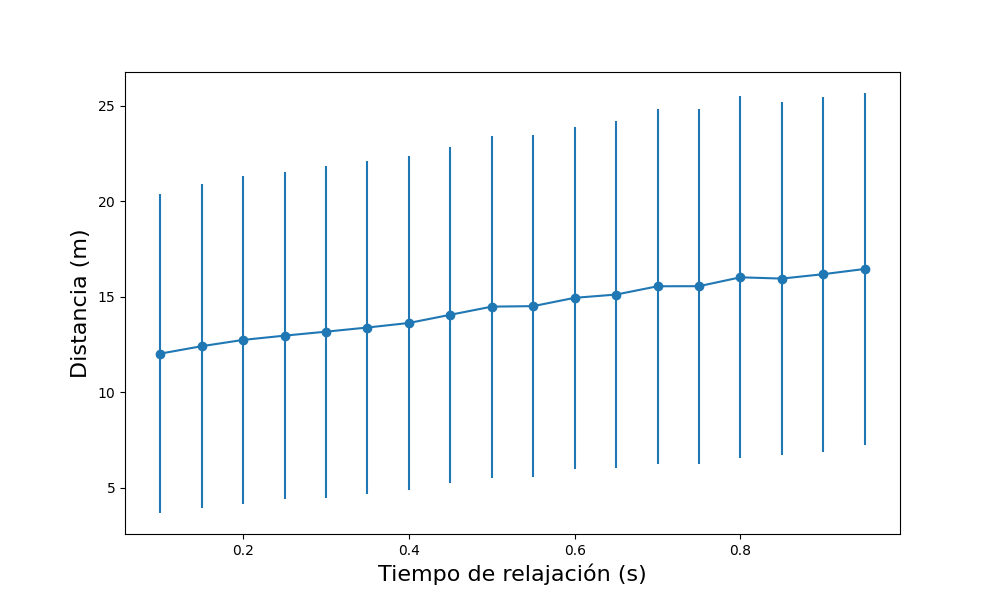
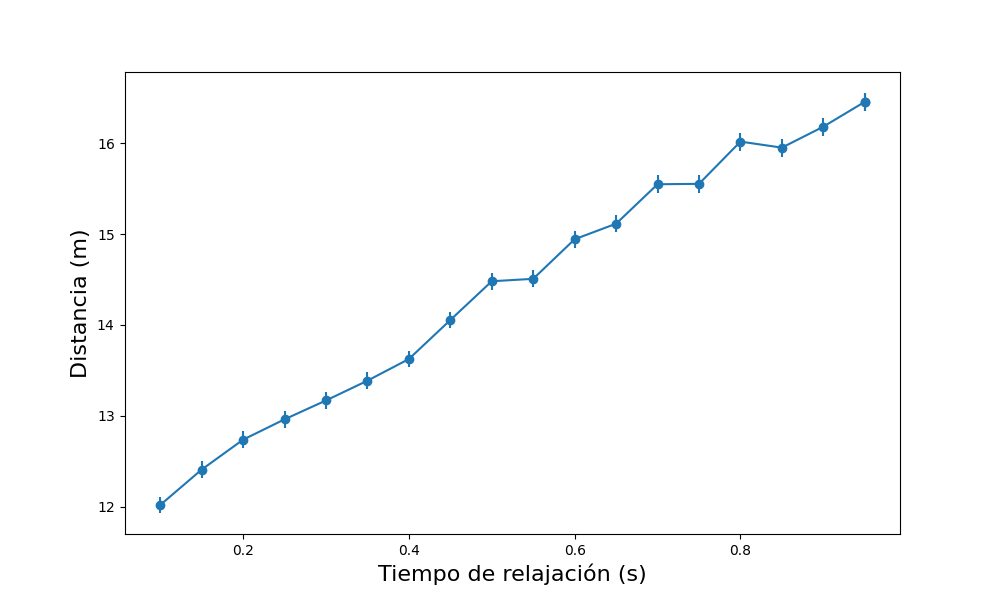
add changes results

diff --git a/Visualization/heat_map.py b/Visualization/heat_map.py
@@ -3,47 +3,72 @@ import numpy as np
 import seaborn as sns
 import matplotlib.pyplot as plt
 
-
 # ---------------------------------------------------
 # CAMBIAR
 # ---------------------------------------------------
-CELDA = 3
+CELDA = 1
 # ---------------------------------------------------
 
 # Leer los datos desde el archivo CSV
 data = pd.read_csv('../Simulation/Output/Salida.csv')
 num_rows, num_cols = data.shape
 
-rows = 68 // CELDA # Redondear hacia abajo
+rows = 68 // CELDA  # Redondear hacia abajo
 cols = 105 // CELDA  # Redondear hacia abajo
 
 # Crear la matriz de ceros
 field = np.zeros((rows, cols))
 
+print(num_rows)
+
+
 for i in range(num_rows):
     for j in range(4, num_cols, 2):
+        #print(i, j)
         posX = data.iloc[i, j]
         posY = data.iloc[i, j+1]
         iX = int(posX // CELDA)
         iY = int(posY // CELDA)
-        if(iX >= cols):
+        if iX >= cols:
             iX = cols - 1
-        if(iY >= rows):
+        if iY >= rows:
             iY = rows - 1
-        if(iX < 0):
+        if iX < 0:
             iX = 0
-        if(iY < 0):
+        if iY < 0:
             iY = 0
+        #if j != 6 and j != 6 + 11 * 2:
         field[iY, iX] += 1
 
 # Crear el mapa de calor
 plt.figure(figsize=(10, 6))
-sns.heatmap(field, cmap='RdYlGn_r', annot=False, cbar=True, xticklabels=False, yticklabels=False)
+sns.heatmap(field/data.iloc[num_rows-1, 1], cmap='RdYlGn_r', annot=False, cbar=True, cbar_kws={'label': 'Visitas por segundo'})
+
+# Ajustar las etiquetas de los ejes para mostrar 4 marcas
+x_ticks = [0, cols // 4, cols // 2, 3 * cols // 4,  cols]
+y_ticks = [0, rows // 4, rows // 2, 3* rows // 4, rows]
+
+plt.xticks(ticks=x_ticks, labels=[int(tick * CELDA) for tick in x_ticks])
+plt.yticks(ticks=y_ticks, labels=[int(tick * CELDA) for tick in y_ticks])
+
+# Invertir el eje y para que el origen esté en la parte inferior izquierda
+plt.gca().invert_yaxis()
 
 # Mostrar el gráfico
 plt.show()
 
+plt.figure(figsize=(10, 6))
 
+plt.imshow(field/data.iloc[num_rows-1, 1], cmap='RdYlGn_r', interpolation='bicubic', vmin=0, vmax=0.25)
+# Ajustar las etiquetas de los ejes para mostrar 4 marcas
+x_ticks = [0, cols // 4, cols // 2, 3 * cols // 4,  cols]
+y_ticks = [0, rows // 4, rows // 2, 3* rows // 4, rows]
 
+plt.xticks(ticks=x_ticks, labels=[int(tick * CELDA) for tick in x_ticks])
+plt.yticks(ticks=y_ticks, labels=[int(tick * CELDA) for tick in y_ticks])
 
+# Invertir el eje y para que el origen esté en la parte inferior izquierda
+plt.gca().invert_yaxis()
 
+# Mostrar el gráfico
+plt.show()

diff --git a/Visualization/unique_heat_map.py b/Visualization/unique_heat_map.py
@@ -3,12 +3,11 @@ import numpy as np
 import seaborn as sns
 import matplotlib.pyplot as plt
 
-
 # ---------------------------------------------------
 # CAMBIAR
 # ---------------------------------------------------
-CELDA = 3
-PLAYER = 0
+CELDA = 1
+PLAYER = 9
 VISITANTE = False
 # PLAYER ESPECIAL = 0
 # ---------------------------------------------------
@@ -43,14 +42,37 @@ for i in range(num_rows):
         iY = 0
     field[iY, iX] += 1
 
-# Crear el mapa de calor
 plt.figure(figsize=(10, 6))
-sns.heatmap(field, cmap='RdYlGn_r', vmin=0, vmax=800 ,annot=False, cbar=True, xticklabels=False, yticklabels=False)
+sns.heatmap(field/data.iloc[num_rows-1, 1], cmap='RdYlGn_r', vmin=0, vmax=0.25,  annot=False, cbar=True, cbar_kws={'label': 'Visitas por segundo'})
+
+# Ajustar las etiquetas de los ejes para mostrar 4 marcas
+x_ticks = [0, cols // 4, cols // 2, 3 * cols // 4,  cols]
+y_ticks = [0, rows // 4, rows // 2, 3* rows // 4, rows]
+
+plt.xticks(ticks=x_ticks, labels=[int(tick * CELDA) for tick in x_ticks])
+plt.yticks(ticks=y_ticks, labels=[int(tick * CELDA) for tick in y_ticks])
+
+# Invertir el eje y para que el origen esté en la parte inferior izquierda
+plt.gca().invert_yaxis()
 
 # Mostrar el gráfico
 plt.show()
 
+plt.figure(figsize=(10, 6))
+plt.imshow(field/data.iloc[num_rows-1, 1], cmap='RdYlGn_r', interpolation='bicubic', vmin=0, vmax=0.25)
 
+# Ajustar las etiquetas de los ejes para mostrar 4 marcas
+x_ticks = [0, cols // 4, cols // 2, 3 * cols // 4,  cols]
+y_ticks = [0, rows // 4, rows // 2, 3* rows // 4, rows]
+
+plt.xticks(ticks=x_ticks, labels=[int(tick * CELDA) for tick in x_ticks])
+plt.yticks(ticks=y_ticks, labels=[int(tick * CELDA) for tick in y_ticks])
+
+# Invertir el eje y para que el origen esté en la parte inferior izquierda
+plt.gca().invert_yaxis()
+
+# Mostrar el gráfico
+plt.show()
 
 
 

diff --git a/Visualization/PDF_analisis.py b/Visualization/PDF_analisis.py
@@ -16,7 +16,7 @@ PLAYER_ESPECIAL = 0
 # ---------------------------------------------------
 
 # Leer los datos desde el archivo CSV
-data = pd.read_csv('../Simulation/Output/Salida.csv')
+data = pd.read_csv('../Simulation/Output/Salida_todo.csv')
 num_rows, num_cols = data.shape
 
 player_numbers = [4 + PLAYER_1*2, 4 + PLAYER_2*2, 4 + PLAYER_3*2, 4 + PLAYER_ESPECIAL*2]
@@ -32,17 +32,25 @@ for player_number in player_numbers:
         posY = data.iloc[i, j+1]
         next_posY = data.iloc[i+1, j+1]
         velocity = np.sqrt((posX - next_posX)**2 + (posY - next_posY)**2) / (1/24.0)
-        velocities.append(velocity)
+        if velocity < 6:
+            velocities.append(velocity)
 
-    sns.kdeplot(velocities, fill=True)
+    counts, bin_edges = np.histogram(velocities, bins='sturges', density=True)
+    bin_centers = (bin_edges[:-1] + bin_edges[1:]) / 2
+
+    label = ''
     if player_number == 4 + PLAYER_ESPECIAL*2:
-        plt.hist(velocities, density=True, label='Jugador')
+        label = 'Jugador'
+        velocities.append(0)
     if player_number == 4 + PLAYER_1*2:
-        plt.hist(velocities, density=True, label='Arquero')
+        label = 'Arquero'
     if player_number == 4 + PLAYER_2*2:
-        plt.hist(velocities, density=True, label='Lateral')
+        label = 'Lateral'
     if player_number == 4 + PLAYER_3*2:
-        plt.hist(velocities, density=True, label='Delantero')
+        label = 'Delantero'
+
+    plt.plot(bin_centers, counts, linestyle='-', marker='o', label=label)
+    #plt.hist(velocities, bins='sturges', density=True, histtype='step')
 
 plt.xlabel("Velocidad (m/s)", fontsize=16)
 plt.ylabel("PDF", fontsize=16)

diff --git a/Visualization/tao_variation.py b/Visualization/tao_variation.py
@@ -25,16 +25,16 @@ for filename in os.listdir(data_directory):
         distances = np.sqrt((df['Sx'] - df['Bx'])**2 + (df['Sy'] - df['By'])**2)
 
         if filename == "Salida_0.1_tao.csv":
-            plt.plot(distances, label='τ=' + str(0.1) + ' s')
+            plt.plot(df['Time'], distances, label='τ=' + str(0.1) + ' s')
         if filename == "Salida_0.65_tao.csv":
-            plt.plot(distances, label='τ=' + str(0.65) + ' s')
+            plt.plot(df['Time'], distances, label='τ=' + str(0.65) + ' s')
         if filename == "Salida_0.95_tao.csv":
-            plt.plot(distances, label='τ=' + str(0.95) + ' s')
+            plt.plot(df['Time'], distances, label='τ=' + str(0.95) + ' s')
 
 
         # Encuentra la distancia mínima
         distance_prom = distances.mean()
-        distance_std = distances.std()
+        distance_std = distances.std() / np.sqrt(len(distances))
 
         # Guarda el nombre del archivo y la distancia mínima
         total_distances.append((float(re.search(regex, filename).group(1)), distance_prom, distance_std))

diff --git a/Visualization/velocity_variation.py b/Visualization/velocity_variation.py
@@ -26,7 +26,7 @@ for filename in os.listdir(data_directory):
 
         # Encuentra la distancia mínima
         distance_prom = distances.mean()
-        distance_std = distances.std()
+        distance_std = distances.std() / np.sqrt(len(distances))
 
         # Guarda el nombre del archivo y la distancia mínima
         total_distances.append((float(re.search(regex, filename).group(1)), distance_prom, distance_std))
@@ -53,6 +53,7 @@ distances_df.sort_values(by="Filename", inplace=True)
 # Crea el gráfico de distancias mínimas
 plt.figure(figsize=(10, 6))
 plt.errorbar(distances_df['Filename'], distances_df["Distance"], yerr=distances_df['Error'], fmt='o-', label='Min Distance')
+plt.ylim(bottom=0, top=30)
 plt.xlabel("Velocidad deseada (m/s)", fontsize=16)
 plt.ylabel("Distancia (m)", fontsize=16)
 plt.ticklabel_format(axis="y", style="sci", useMathText=True)

diff --git a/Visualization/main_visualization.py b/Visualization/main_visualization.py
@@ -14,7 +14,7 @@ DEFAULT_INPUT_PATH = '../Simulation/input/'
 AVG_PATH = '/animation_output/'
 #PARTICLES_COORDINATES_FILE2 = ('../../Simulation/output/SimulationData_' + str(N) + '_' + str(FAKE_L) +
 #                               '_' + str(SPEED) + '.csv')
-PLAYERS_COORDINATES_FILE = '../Simulation/Output/Salida.csv'
+PLAYERS_COORDINATES_FILE = '../Simulation/Output/Salida_todo.csv'
 #SIMULATION_INPUT_JSON = ('../../Simulation/output/' + 'StateData_' + str(N) + '_' + str(FAKE_L) +
 #                         '_' + str(SPEED) + '.json')
 CONFIG_FILE = '../../Simulation/input/input.json'
@@ -26,7 +26,7 @@ OUTPUT_FILENAME = 'match_animation'
 HEIGHT = 68
 WIDTH = 105
 RADIUS_PLAYERS = 0.3 * 2
-RADIUS_BALL = 0.1 * 2
+RADIUS_BALL = 0.3 * 2
 # ---------------------------------------------------
 # Video stuff
 # ---------------------------------------------------

diff --git a/Visualization/PDF_log_analisis.py b/Visualization/PDF_log_analisis.py
@@ -16,7 +16,7 @@ PLAYER_ESPECIAL = 0
 # ---------------------------------------------------
 
 # Leer los datos desde el archivo CSV
-data = pd.read_csv('../Simulation/Output/Salida.csv')
+data = pd.read_csv('../Simulation/Output/Salida_todo.csv')
 num_rows, num_cols = data.shape
 
 player_numbers = [4 + PLAYER_1*2, 4 + PLAYER_2*2, 4 + PLAYER_3*2, 4 + PLAYER_ESPECIAL*2]
@@ -54,5 +54,6 @@ for player_number in player_numbers:
 
 plt.xlabel("Velocidad (m/s)", fontsize=16)
 plt.ylabel("PDF", fontsize=16)
+plt.yscale('log')
 plt.legend(bbox_to_anchor=(0.5, 1.1), loc='upper center', borderaxespad=0, fontsize=12, ncol=4)
 plt.show()
